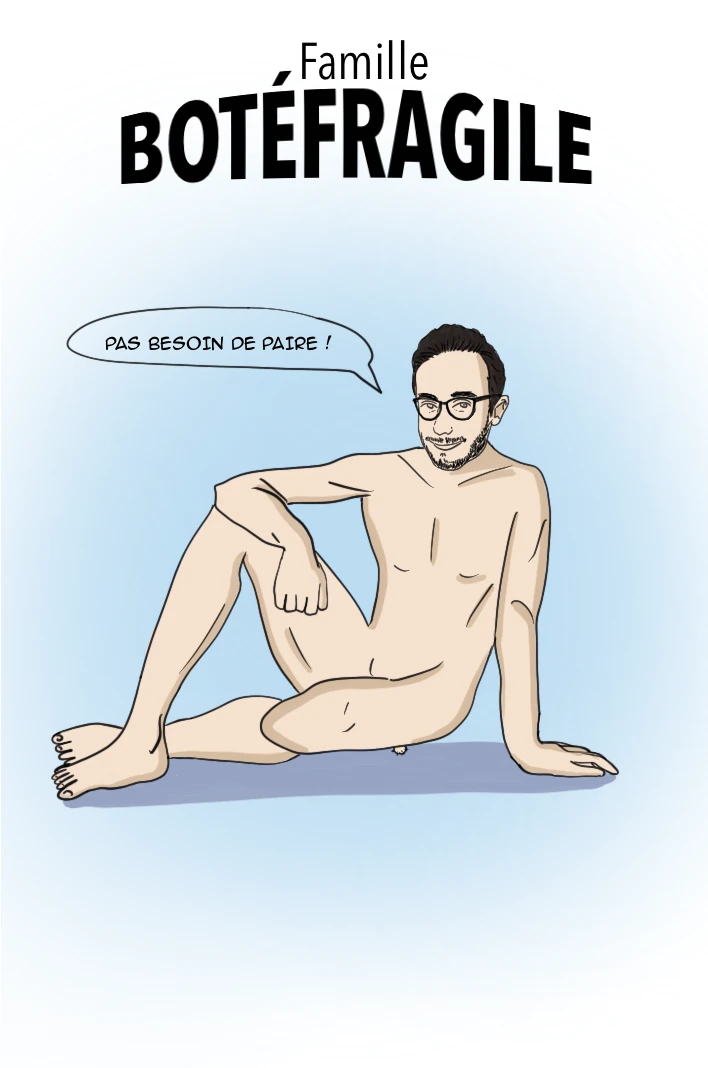
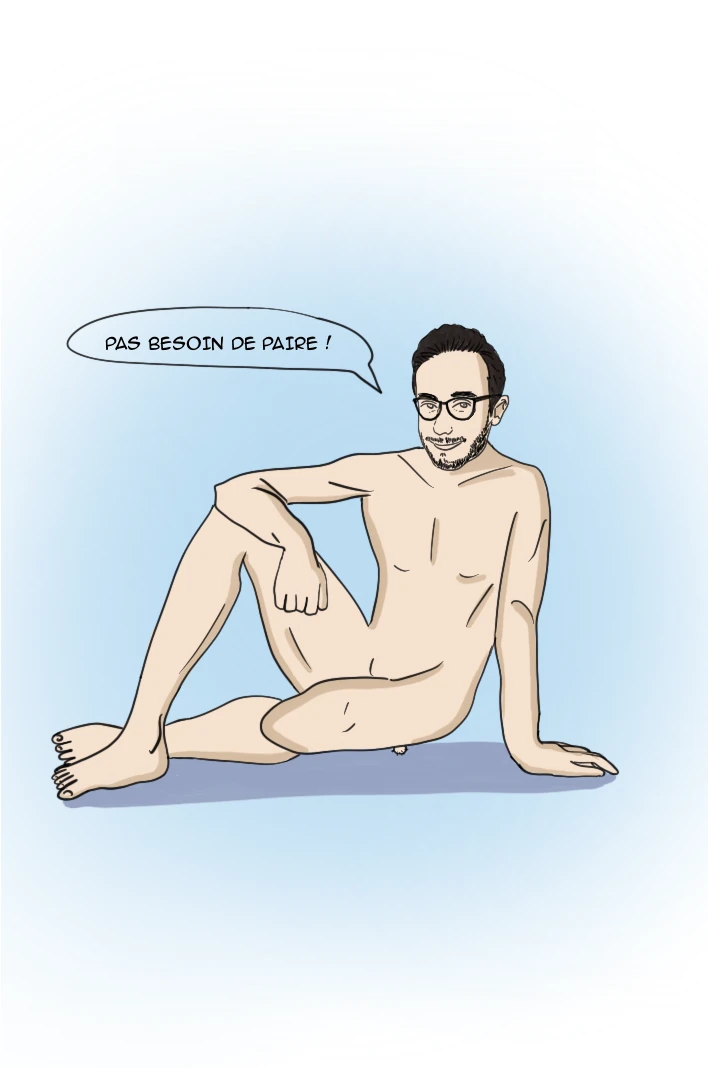
Cartes d'origine avec décor pour 70 tenues (titres effacés), nouvelle tenue Botéfragile de Turquet (Le Fils)

Changed region(s): [[0.1554, 0.0309, 0.839, 0.1854]]

diff --git a/src/data/characters.ts b/src/data/characters.ts
@@ -685,6 +685,14 @@ export const characters: Character[] = [
         video: 'images/personnages/turquet/gaulois-chute.mp4',
       },
       {
+        family: 'botefragile',
+        image: 'images/personnages/turquet/botefragile-blanc.png',
+        bubble: 'Tu es plus belle que la vie elle-même',
+        whiteBg: true,
+        bust: { cx: 50, cy: 32, zoom: 2 },
+        cutout: 'images/personnages/turquet/botefragile-cutout.png',
+      },
+      {
         family: 'izi-karate',
         image: 'images/personnages/turquet/izikarate-blanc.png',
         bubble: 'Tu vas pas commencer à me glonfler !',

diff --git a/scripts/decors.py b/scripts/decors.py
@@ -6,14 +6,17 @@ Les cartes déposées dans un dossier (par défaut public/images/autres/, non pu
   1. reconnues : on retrouve le copain et la famille en comparant au <famille>-blanc.png
      de chaque tenue (même dessin, même cadre) ;
   2. recadrées au cadre 708×1068 des autres images (la vidéo s'y superpose au pixel près) ;
-  3. nettoyées : le nom du rôle en bas de carte (« L'ONCLE »…) est effacé ;
+  3. nettoyées : le titre « Famille … » en haut et le nom du rôle en bas (« L'ONCLE »…) sont effacés
+     (la fiche affiche déjà la famille dans son encart) ;
   4. installées en public/images/personnages/<copain>/<famille>-decor.webp
-     (l'original part dans sources/personnages/<copain>/decor/<famille>.png).
+     (une carte encore inconnue est rangée dans sources/personnages/<copain>/cartes/ et ajoutée
+     à sources/personnages/cartes.json ; une carte déjà connue n'est pas recopiée).
 
     python3 scripts/decors.py                     # tout le dossier public/images/autres
     python3 scripts/decors.py dossier/ carte.png  # d'autres fichiers / dossiers
     python3 scripts/decors.py --essai ...         # affiche la reconnaissance sans rien écrire
 """
+import json
 import sys
 from pathlib import Path
 
@@ -23,9 +26,12 @@ from PIL import Image, ImageFilter
 ROOT = Path(__file__).resolve().parent.parent
 PUB = ROOT / "public/images/personnages"
 SRC = ROOT / "sources/personnages"
+CARTES = SRC / "cartes.json"
 W, H = 708, 1068
-# Zone du nom du rôle : bas de carte, sous les pieds du personnage
-TITRE_Y = 0.80
+# Bande du nom du rôle, en bas de carte (même place sur toutes les cartes)
+ROLE = (940, 1036)
+# Haut de carte où se trouve le titre « Famille … » (jusqu'à deux lignes)
+FAMILLE_Y = 270
 # En dessous de ce score (écart moyen sur le dessin, 0–255), la reconnaissance est jugée sûre
 SEUIL = 28
 
@@ -71,17 +77,49 @@ def reconnaitre(im, refs):
     return scores[0], scores[1]
 
 
-def effacer_titre(im, blanc):
-    """Efface le texte du bas : pixels sombres hors du dessin (blanc) sous TITRE_Y, remplacés par le fond."""
+def dilater(mask, n):
+    return np.asarray(Image.fromarray((mask * 255).astype(np.uint8)).filter(ImageFilter.MaxFilter(n))) > 0
+
+
+def personnage(slug, fam):
+    """Masque du personnage dessiné (détourage -plein.png, à défaut l'illustration -blanc.png)."""
+    plein = PUB / slug / f"{fam}-plein.png"
+    if plein.exists():
+        return dilater(np.asarray(Image.open(plein).convert("RGBA"))[..., 3] > 0, 5)
+    return np.asarray(Image.open(PUB / slug / f"{fam}-blanc.png").convert("L")) < 235
+
+
+def titre_famille(cartes):
+    """Le titre « Famille … » est identique sur toutes les cartes d'une famille : pixels sombres
+    communs à la plupart d'entre elles, en haut de carte (le décor, propre à chaque carte, n'y est pas)."""
+    sombre = np.stack([np.asarray(c.convert("L"))[:FAMILLE_Y] < 140 for c in cartes])
+    commun = sombre.mean(axis=0) >= 0.6
+    mask = np.zeros((H, W), dtype=bool)
+    mask[:FAMILLE_Y] = commun
+    return mask
+
+
+def recaler(mask, im):
+    """Décale le masque du titre (quelques px) pour coller au titre de cette carte-ci, puis l'élargit
+    pour couvrir l'anticrénelage des lettres."""
+    if not mask.any():
+        return mask
+    sombre = np.asarray(im.convert("L")) < 140
+    best = max(
+        ((np.roll(mask, (dy, dx), (0, 1)) & sombre).sum(), dy, dx)
+        for dy in range(-10, 11, 2)
+        for dx in range(-10, 11, 2)
+    )
+    return dilater(np.roll(mask, best[1:], (0, 1)), 11)
+
+
+def effacer_titre(im, perso, famille):
+    """Efface le titre de famille (masque commun) et le nom du rôle (bande du bas), hors personnage."""
     a = np.asarray(im, dtype=np.float32).copy()
-    b = np.asarray(blanc.convert("L"), dtype=np.float32)
     g = a.mean(axis=2)
-    y0 = int(H * TITRE_Y)
-    zone = np.zeros_like(g, dtype=bool)
-    zone[y0:] = True
-    texte = zone & (g < 200) & (b > 245)
-    m = Image.fromarray((texte * 255).astype(np.uint8)).filter(ImageFilter.MaxFilter(7))
-    texte = np.asarray(m) > 0
+    role = np.zeros((H, W), dtype=bool)
+    role[ROLE[0]:ROLE[1]] = g[ROLE[0]:ROLE[1]] < 170
+    texte = (famille | dilater(role, 9)) & ~perso
     # Fond de remplacement : médiane de chaque ligne hors texte (dégradés horizontaux conservés)
     for y in np.where(texte.any(axis=1))[0]:
         row = a[y]
@@ -102,6 +140,8 @@ def main():
     for e in entrees:
         fichiers += sorted(p for p in e.iterdir() if p.suffix.lower() in (".png", ".jpg", ".jpeg", ".webp")) if e.is_dir() else [e]
     refs = references()
+    cartes = json.loads(CARTES.read_text())
+    faites = set()
     for f in fichiers:
         im = carte(f)
         (score, key), (score2, key2) = reconnaitre(im, refs)
@@ -110,10 +150,30 @@ def main():
         print(f"{f.name:28s} → {slug}/{fam}  (écart {score:.0f}, suivant {key2[0]}/{key2[1]} {score2:.0f}){'' if sur else '  ⚠ pas sûr, ignoré'}")
         if essai or not sur:
             continue
-        (SRC / slug / "decor").mkdir(parents=True, exist_ok=True)
-        Image.open(f).save(SRC / slug / "decor" / f"{fam}.png")
-        propre = effacer_titre(im, Image.open(PUB / slug / f"{fam}-blanc.png"))
-        propre.save(PUB / slug / f"{fam}-decor.webp", quality=90, method=6)
+        if key in faites:
+            print(f"  (déjà fournie par un autre fichier, ignorée)")
+            continue
+        connue = cartes.get(f"{slug}/{fam}")
+        if not (connue and np.array_equal(np.asarray(carte(SRC / connue)), np.asarray(im))):
+            dst = SRC / slug / "cartes" / f"{f.stem.replace(' ', '-')}.png"
+            dst.parent.mkdir(parents=True, exist_ok=True)
+            Image.open(f).save(dst)
+            cartes[f"{slug}/{fam}"] = str(dst.relative_to(SRC))
+            print(f"  nouvelle carte → {dst.relative_to(ROOT)}")
+        faites.add(key)
+    if not essai:
+        CARTES.write_text(json.dumps(cartes, indent=1, ensure_ascii=False) + "\n")
+    # Nettoyage, famille par famille (le titre de famille se déduit de toutes ses cartes)
+    for fam in sorted({k[1] for k in faites}):
+        originaux = {k.split("/")[0]: carte(SRC / v) for k, v in sorted(cartes.items()) if k.split("/")[1] == fam}
+        famille = titre_famille(list(originaux.values())) if len(originaux) >= 3 else np.zeros((H, W), dtype=bool)
+        if len(originaux) < 3:
+            print(f"⚠ {fam} : moins de 3 cartes, titre de famille non effacé")
+        for slug, im in originaux.items():
+            if (slug, fam) not in faites:
+                continue
+            propre = effacer_titre(im, personnage(slug, fam), recaler(famille, im))
+            propre.save(PUB / slug / f"{fam}-decor.webp", quality=90, method=6)
 
 
 if __name__ == "__main__":

diff --git a/scripts/verifier-images.py b/scripts/verifier-images.py
@@ -30,6 +30,8 @@ on_disk = {
 derived = {r.replace("-cutout.png", "-plein.png") for r in refs if r.endswith("-cutout.png")}
 # Les calques « -bulle » accompagnent l'illustration « -blanc » (utilisés automatiquement par la fiche)
 derived |= {r.replace("-blanc.png", "-bulle.png") for r in refs if r.endswith("-blanc.png")}
+# Les cartes avec décor « -decor.webp » (scripts/decors.py) remplacent l'illustration dans la fiche
+derived |= {r.replace("-blanc.png", "-decor.webp") for r in refs if r.endswith("-blanc.png")}
 unused = sorted(on_disk - refs - derived)
 broken = sorted(r for r in refs if not (IMAGES / r).exists())
 print("Nouvelles images à intégrer :", *(unused or ["aucune"]), sep="\n  ")

diff --git a/scripts/bulles.py b/scripts/bulles.py
@@ -45,6 +45,7 @@ B = {
  ("turquet","IMG_3884","gaulois"):[(56,235,388,344)],
  ("turquet","IMG_3905","izikarate"):[(364,252,701,346)],
  ("turquet","IMG_3923","branquignol"):[(335,264,666,375)],
+ ("turquet","IMG_3895","botefragile"):[(408,256,698,362)],
 }
 only=sys.argv[1:]
 for (slug,img,fam),boxes in B.items():
